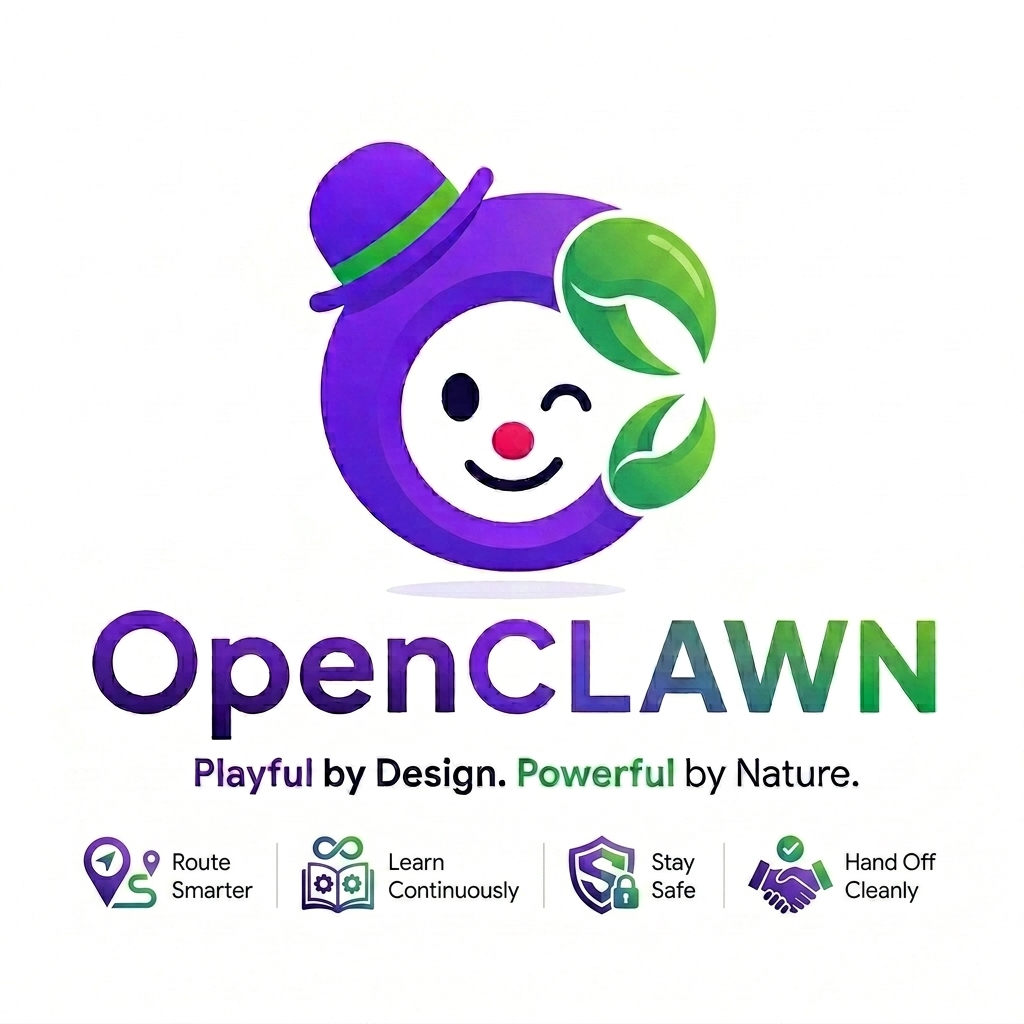
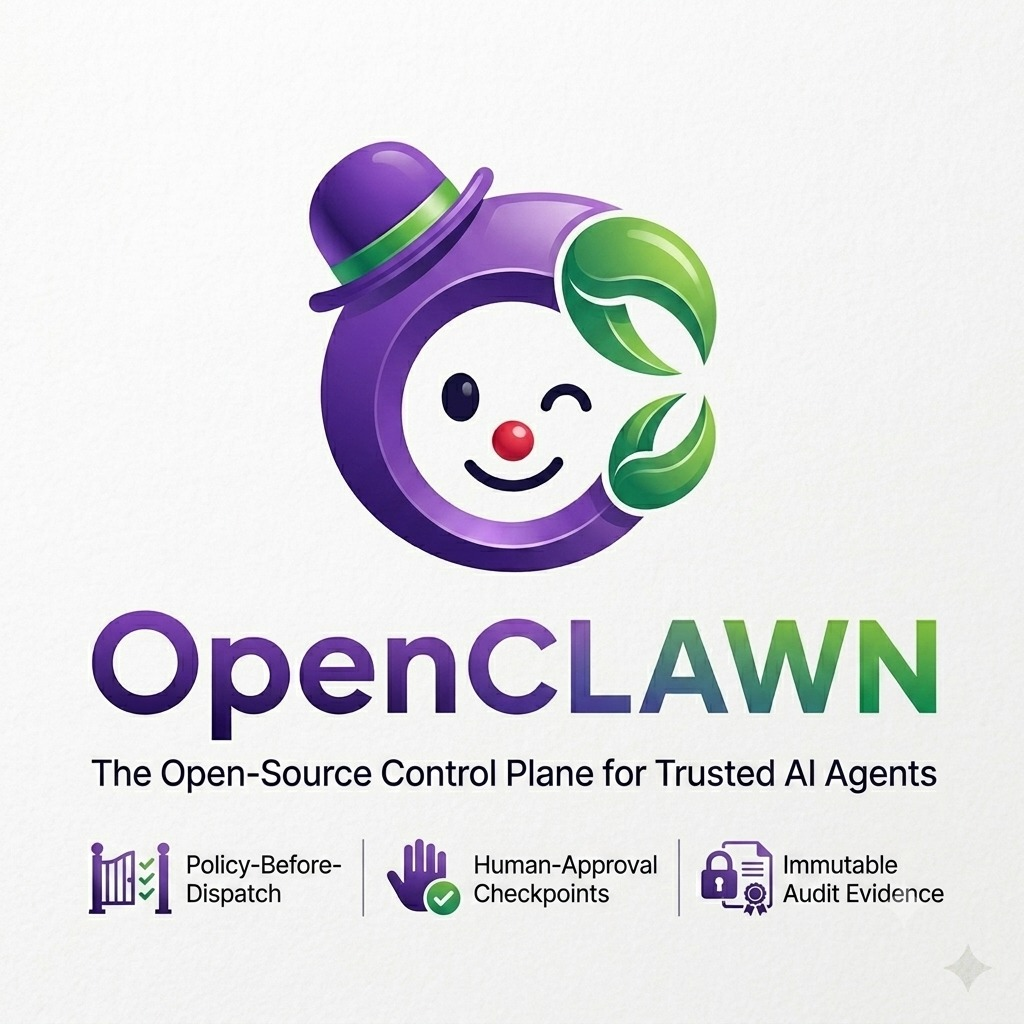
docs: reposition README as "Agent Control Plane" + fix stale diagrams
Positioning baru selaras riset pasar 2026 tervalidasi (governance gap 60%,
kompetitor besar LangChain/CrewAI/AutoGen terbukti belum menutup celah
policy/approval/audit — dikutip dengan sumber di README).

- Headline & tagline: "The Open-Source Control Plane for Trusted AI Agents"
  + 3 value prop (Policy-Before-Dispatch, Human-Approval Checkpoints,
  Immutable Audit Evidence).
- Section baru "Why not just use LangChain/CrewAI/AutoGen?" — kutipan
  riset independen + tabel gap-ke-jawaban + bagian jujur "what OpenCLAWN
  is not yet" (no over-promise).
- Logo diperbarui (assets/OpenClawn.png) — tagline & 3 ikon value prop baru,
  maskot dipertahankan.
- Audit + perbaikan 5 diagram Mermaid vs kode aktual: jumlah tool (26→27),
  shell_run dipindah ke grup non-approval (sesuai requires_approval=False
  aktual), set_workdir yang hilang ditambahkan, komponen infra baru
  (auth, rate_limit, chat_sessions, workspace, backup) dimasukkan ke
  diagram Component Overview yang sebelumnya ketinggalan.
- Badge stale diperbaiki (tools 26→27, tests 490→636).

diff --git a/README.md b/README.md
@@ -2,11 +2,11 @@
   <img src="assets/OpenClawn.png" alt="OpenCLAWN Logo" width="420" />
 
   <h1>OpenCLAWN</h1>
-  <p><strong>Playful by Design. Powerful by Nature.</strong></p>
-  <p>Lightweight, safe, self-improving multi-role agent framework</p>
+  <p><strong>The Open-Source Control Plane for Trusted AI Agents.</strong></p>
+  <p>Policy-before-dispatch, human-approval checkpoints, and immutable audit evidence — built in, not bolted on.</p>
 
   <p>
-    <strong>Route Smarter</strong> · <strong>Learn Continuously</strong> · <strong>Stay Safe</strong> · <strong>Hand Off Cleanly</strong>
+    <strong>Policy-Before-Dispatch</strong> · <strong>Human-Approval Checkpoints</strong> · <strong>Immutable Audit Evidence</strong>
   </p>
 
   <p>
@@ -14,8 +14,8 @@
     <img src="https://img.shields.io/badge/python-3.12+-blue" alt="Python 3.12+">
     <img src="https://img.shields.io/badge/license-MIT-green" alt="MIT License">
     <img src="https://img.shields.io/badge/LLM-Ollama%20%2B%20Gemini%20%2B%20Claude-purple" alt="Hybrid LLM">
-    <img src="https://img.shields.io/badge/tools-26-orange" alt="26 Tools">
-    <img src="https://img.shields.io/badge/tests-490%20passing-brightgreen" alt="Tests">
+    <img src="https://img.shields.io/badge/tools-27-orange" alt="27 Tools">
+    <img src="https://img.shields.io/badge/tests-636%20passing-brightgreen" alt="Tests">
   </p>
 </div>
 
@@ -23,7 +23,24 @@
 
 ## What is OpenCLAWN?
 
-OpenCLAWN is an agent framework built around **4 core innovations** that most agent frameworks skip:
+By 2026, the AI agent market shifted: multi-agent orchestration, tool calling, and RAG became
+table stakes — nearly every framework has them. What enterprises are actually buying now is
+**governance**: the ability to run an AI worker safely, with a paper trail, and stop it before
+it does something wrong. That gap is real — [research on 2026 enterprise adoption](https://agenticaiinstitute.org/agentic-ai-enterprise-adoption-2026-governance-gap/)
+found 72% of organizations already run agentic AI in production, but only 21% have a mature
+governance model for it.
+
+OpenCLAWN is built to close exactly that gap. It's a **control plane** — the layer that decides
+whether an agent's action is allowed, that stops it for a human when the rule says so, and that
+proves after the fact what happened and why — sitting on top of the agent logic itself:
+
+| What it does | How |
+|---|---|
+| **Policy-Before-Dispatch** | Every tool call carries `requires_approval`; nothing destructive runs before the policy check clears |
+| **Human-Approval Checkpoints** | Approval is a blocking gate in the loop, not a log line after the fact — the agent stops and waits |
+| **Immutable Audit Evidence** | Every routing decision, tool call, and skill promotion is logged **before** it happens and finalized **after** — a real paper trail, not best-effort logging |
+
+Underneath that, **4 core innovations** most agent frameworks skip make the control plane self-improving instead of static:
 
 | Innovation | Problem Solved |
 |---|---|
@@ -46,6 +63,38 @@ as it's used, all gated and reversible:
 | **Guardrails** | NeMo-style input/output rails (native, no LangChain): block prompt-injection, block system-prompt leaks, redact PII — config-toggleable, fail-safe on |
 
 **Stack:** Python 3.12 · FastAPI · HTMX · SQLite (aiosqlite) · Ollama + Gemini + Claude · httpx · Pydantic · structlog · tenacity
+
+---
+
+## Why not just use LangChain / CrewAI / AutoGen?
+
+Those frameworks are good at what they do — orchestrating the agent loop, tool calling,
+multi-agent coordination. But a 2026 comparative analysis of the space put it plainly:
+
+> "None of them governs risky actions before they hit production — pair your pick with an
+> agent control plane for policy, approvals, and audit... you still need policy-before-dispatch,
+> explicit human approval states, and audit evidence."
+> — [LangGraph vs CrewAI vs AutoGen, 2026 enterprise comparison](https://pub.towardsai.net/langgraph-vs-crewai-vs-autogen-which-ai-agent-framework-should-your-enterprise-use-in-2026-3a9ebb407b09)
+
+That's precisely the gap OpenCLAWN's 4 core innovations close:
+
+| Gap the analysis names | How OpenCLAWN answers it |
+|---|---|
+| No policy-before-dispatch | Every tool declares `requires_approval`; `code_run` can **never** bypass it (enforced at two independent points, not one) |
+| No explicit human approval states | Approval is a blocking node in the agent loop (`security/approval.py`) — the agent waits, it doesn't just log and proceed |
+| No audit evidence | Routing decisions are logged **before** the LLM call and finalized **after** (`core/audit.py`) — not best-effort, structured for replay |
+
+This isn't a claim that OpenCLAWN is "better" at agent orchestration than those frameworks —
+it's a narrower, more honest one: they don't ship a governance layer, and OpenCLAWN's core
+design *is* one. [`"agent control plane"`](https://www.ibm.com/think/topics/agent-control-plane)
+is itself now an established market category — GitHub, Google, and Microsoft all shipped
+products under that name in 2026 — and this is where OpenCLAWN sits, self-hosted and
+open-source instead of a vendor platform.
+
+**What OpenCLAWN is *not*, to be equally direct:** it does not have an event-driven runtime,
+multi-tenant isolation, or OAuth/SSO yet — these are tracked as future work, not silently
+skipped. It is honest about being single-user-per-deployment today, not a finished
+multi-tenant product (see [Scope & Production Posture](#scope--production-posture) below).
 
 ---
 
@@ -95,12 +144,14 @@ Open **http://localhost:8000** to chat · **http://localhost:8000/metrics** for 
 graph TB
     subgraph UI["Web UI — FastAPI + HTMX + SSE"]
         CHAT["/chat/stream · single agent"]
-        CONVERSE["/converse/stream · multi-agent"]
+        CONVERSE["/converse/stream · multi-agent (+ /interject · /stop)"]
         ACTIVITY["/activity · timeline + blockers"]
         AUTOPAGE["/autopilots · scheduled runs"]
         SKILLS["/skills · decay · curation · packs"]
         METRICS["/metrics · calibration · telemetry"]
         SETTINGS["/router · /settings · model map"]
+        CHATSESS_EP["/chat-sessions · history, resume, delete"]
+        LOGIN_EP["/login · opt-in session auth"]
     end
 
     subgraph CONVO["Multi-Agent Layer"]
@@ -138,8 +189,9 @@ graph TB
         COMPACTOR["ContextCompactor · token budget"]
     end
 
-    subgraph TOOLS["Tools — 26 total, all workspace-bounded"]
+    subgraph TOOLS["Tools — 27 total, all workspace-bounded"]
         FS["Filesystem · read/write/edit/append/patch/glob/grep/list_dir · read_many"]
+        WORKDIR["set_workdir · switch active folder mid-chat, persists per session"]
         EXEC["Execution · code_run · shell_run (both sandboxed)"]
         NET["Network · web_fetch · web_search · http_request (SSRF-guarded)"]
         DATA["Data/docs · db_query · json_query · pdf_read · doc_write · pdf_write"]
@@ -151,11 +203,16 @@ graph TB
         APPROVAL["ApprovalGate · HITL + proposal queue"]
         SHIELD2["Shield · injection scan · SSRF guard"]
         GUARD["Guardrails (NeMo-style) · input + output rails<br/>injection · prompt-leak · PII redaction"]
+        AUTH["Auth · opt-in shared-secret session + CSRF"]
+        RATELIM["RateLimiter · sliding window per-session"]
     end
 
     subgraph INFRA["Infrastructure"]
         DB["SQLite · aiosqlite · WAL · POWER()"]
         SANDBOX["Docker Sandbox · network none · read-only · non-root"]
+        WORKSPACE["SessionWorkspaceStore · per-session working dir"]
+        CHATSESS["ChatSessionStore · history, resume, delete"]
+        BACKUP["infra/backup.py · SQLite Online Backup API"]
     end
 
     UI --> CONVO
@@ -168,7 +225,9 @@ graph TB
     AGENT --> TOOLS
     AGENT --> SECURITY
     AGENT --> INFRA
+    UI --> AUTH
     EXEC --> SANDBOX
+    WORKDIR --> WORKSPACE
     MODULES --> DB
     SECURITY --> DB
 ```
@@ -316,18 +375,20 @@ flowchart LR
         GOUT["OUTPUT: prompt-leak &rarr; block · PII &rarr; redact"]
     end
 
-    subgraph SAFE["No approval — read-only / inspect / internal"]
+    subgraph SAFE["No approval — read-only / inspect / internal / sandboxed"]
         direction TB
         R1["file_read · read_many · list_dir · glob · grep"]
         R2["web_fetch · web_search · pdf_read (SSRF-guarded net)"]
         R3["memory_search · json_query · git_status/diff/log"]
         R4["todo_write · report_blocker (internal tables)"]
+        R5["set_workdir (session-scoped, not filesystem-destructive)"]
+        R6["shell_run — sandboxed, not approval-gated<br/>(container isolation is the real boundary, §17)"]
     end
 
     subgraph GATED["Requires approval — mutate / execute / reach out"]
         direction TB
         G1["file_write · file_edit · file_append · apply_patch"]
-        G2["code_run · shell_run"]
+        G2["code_run — ALWAYS gated, never bypassable (CLAUDE.md §1)"]
         G3["http_request (SSRF-guarded) · db_query (SELECT-only)"]
         G4["doc_write · pdf_write"]
     end
@@ -351,15 +412,20 @@ flowchart LR
     GATED --> AG
     GATED -.autopilot.-> AGP
     G2 --> SANDBOX
+    R6 --> SANDBOX
     SAFE --> GOUT
     AG --> GOUT
 ```
 
 > **Security note:** `code_run` and `shell_run` **never execute on the host** — both run inside
 > the Docker sandbox. If Docker is unavailable, they fail safe (return an error) rather than
-> falling back to host execution. `db_query` is SELECT-only. `web_fetch`/`http_request` pass an
-> anti-SSRF guard (reject loopback, private, link-local incl. cloud metadata). In **autopilot**
-> mode, approval-gated tools are queued as proposals for later review — never run unattended.
+> falling back to host execution. Only `code_run` requires human approval — `shell_run` doesn't,
+> because the sandbox (not the approval click) is the real security boundary for both; `code_run`
+> stays gated regardless because arbitrary code execution is treated as strictly higher-risk than
+> a shell command, and that gate can never be bypassed (not even by trust mode). `db_query` is
+> SELECT-only. `web_fetch`/`http_request` pass an anti-SSRF guard (reject loopback, private,
+> link-local incl. cloud metadata). In **autopilot** mode, approval-gated tools are queued as
+> proposals for later review — never run unattended.
 > **Guardrails** wrap the turn: input rails block injection before the pipeline; output rails
 > run on the full response before storage — blocking system-prompt leaks and redacting PII so it
 > never reaches stored memory (L1/L4). Note: tokens already streamed can't be unsent — output
@@ -606,6 +672,17 @@ If you expose it on a public IP, enable the built-in hardening first:
 5. **`/health`** now also reports Ollama reachability, which cloud API keys are configured,
    and whether auth is enabled — wire it into your process manager or `docker-compose`
    healthcheck (already configured in `docker-compose.yml`).
+6. **Back up the database on a schedule** — `data/openclawn.db` has no automatic backup by
+   default. Use `scripts/backup_db.py` (wraps SQLite's Online Backup API, safe to run while
+   the server is live under WAL mode):
+   ```bash
+   python scripts/backup_db.py --keep 14   # backup now, keep the 14 newest
+   python scripts/backup_db.py --list       # show existing backups
+   ```
+   Schedule it with cron (`0 3 * * * cd /path/to/openclawn && .venv/bin/python
+   scripts/backup_db.py --keep 14`) or a systemd timer — an example unit is documented at the
+   bottom of the script. Restore is a straight file copy: stop the server, replace
+   `data/openclawn.db` with the chosen backup file, restart.
 
 None of this turns OpenCLAWN into a multi-tenant product — it is still one operator, one
 password, one workspace. It closes the gap between "safe on a trusted network" and "safe to